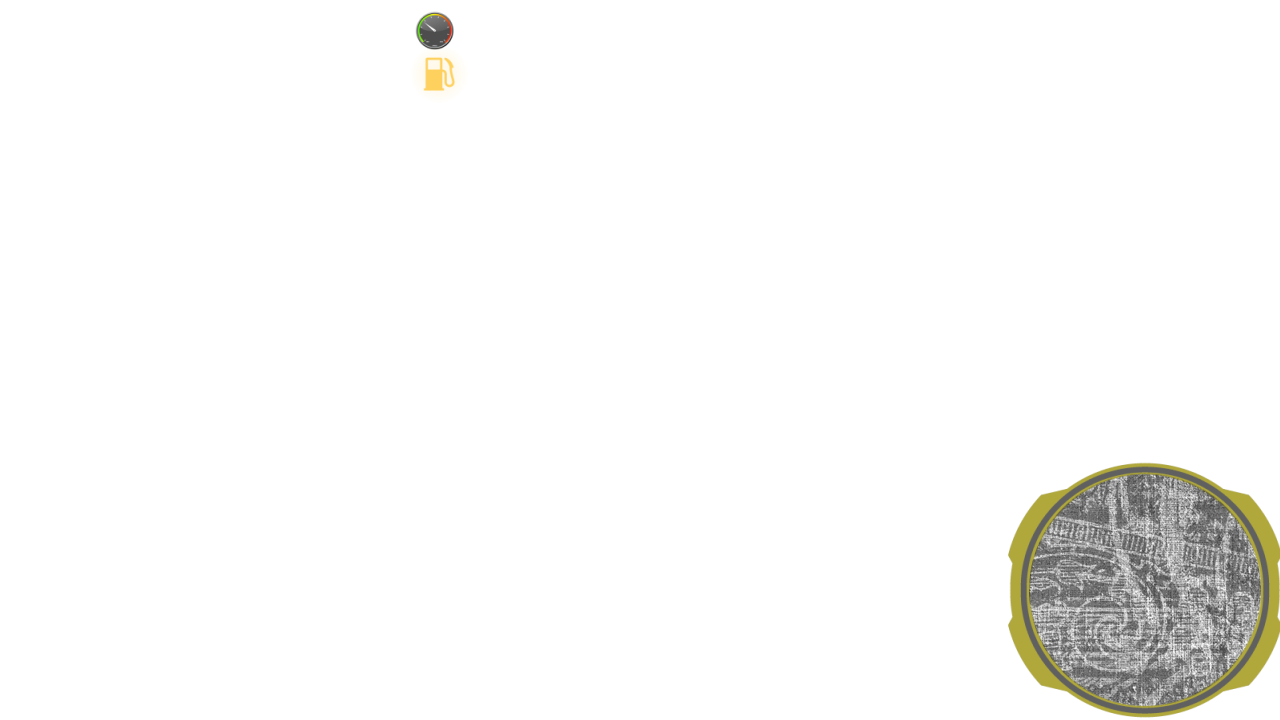
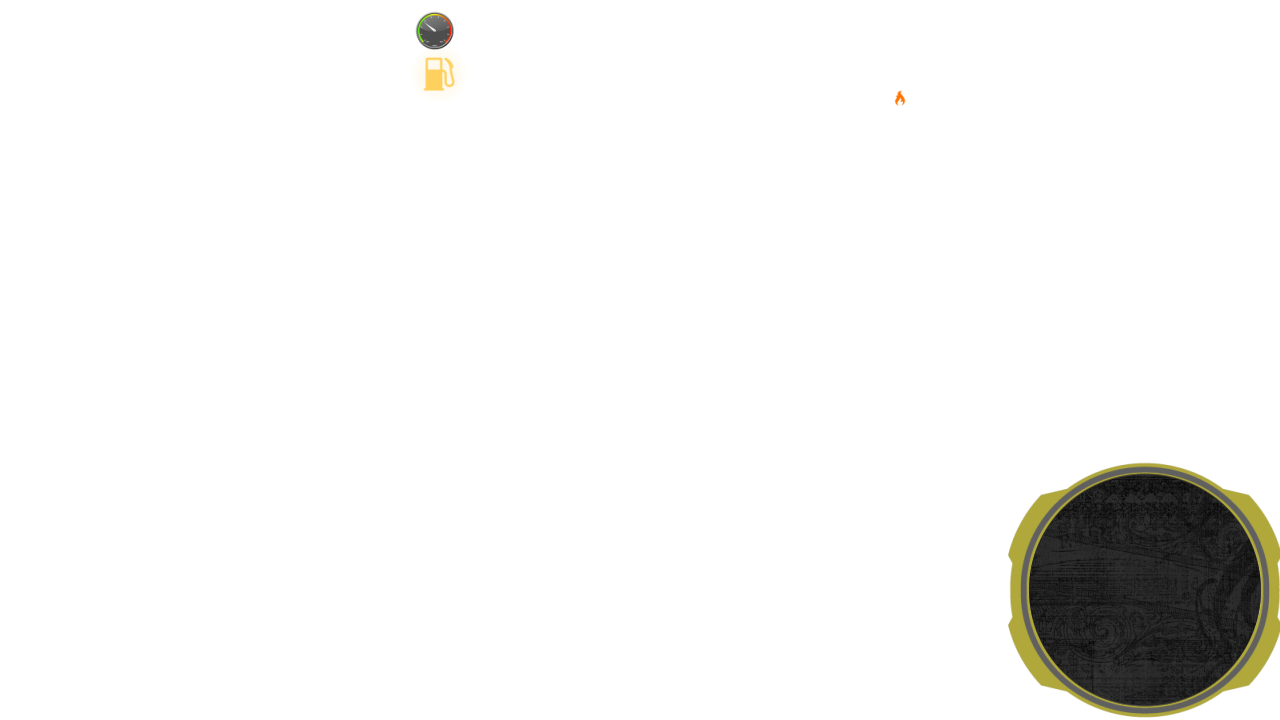
Updated UI and added thrust indicator

Changed region(s): [[0.7812, 0.6417, 1.0, 1.0], [0.6875, 0.1222, 0.7188, 0.1528]]

diff --git a/src/core/src/com/rocketfool/rocketgame/view/GameScreen.java b/src/core/src/com/rocketfool/rocketgame/view/GameScreen.java
@@ -236,6 +236,28 @@ public class GameScreen implements Screen {
                 false
         );
 
+        //Thrust bar
+        float thrustRate;
+        thrustRate = (level.getPlayable().getCurrentImpulse() * 69) / level.getPlayable().getMaxImpulse(); //69 When bar is full
+        batch.draw(
+                overlayFiller,
+                camera.position.x - (camera.viewportWidth / 2f - 894) * camera.zoom, //462 Fuel bar's starting pointX
+                camera.position.y - (camera.viewportHeight / 2f - 635.9f) * camera.zoom, //635.9f Fuel bar's starting pointY
+                0,
+                0,
+                14,
+                thrustRate, //When bar is max
+                camera.zoom,
+                camera.zoom,
+                0,
+                0,
+                0,
+                overlayFiller.getWidth() ,
+                overlayFiller.getHeight() ,
+                false,
+                false
+        );
+
         //Timer
         BitmapFont timerFont = new BitmapFont(Gdx.files.internal("fonts/contrax.fnt"));
         String str = "" + (int)elapsedTime ;
